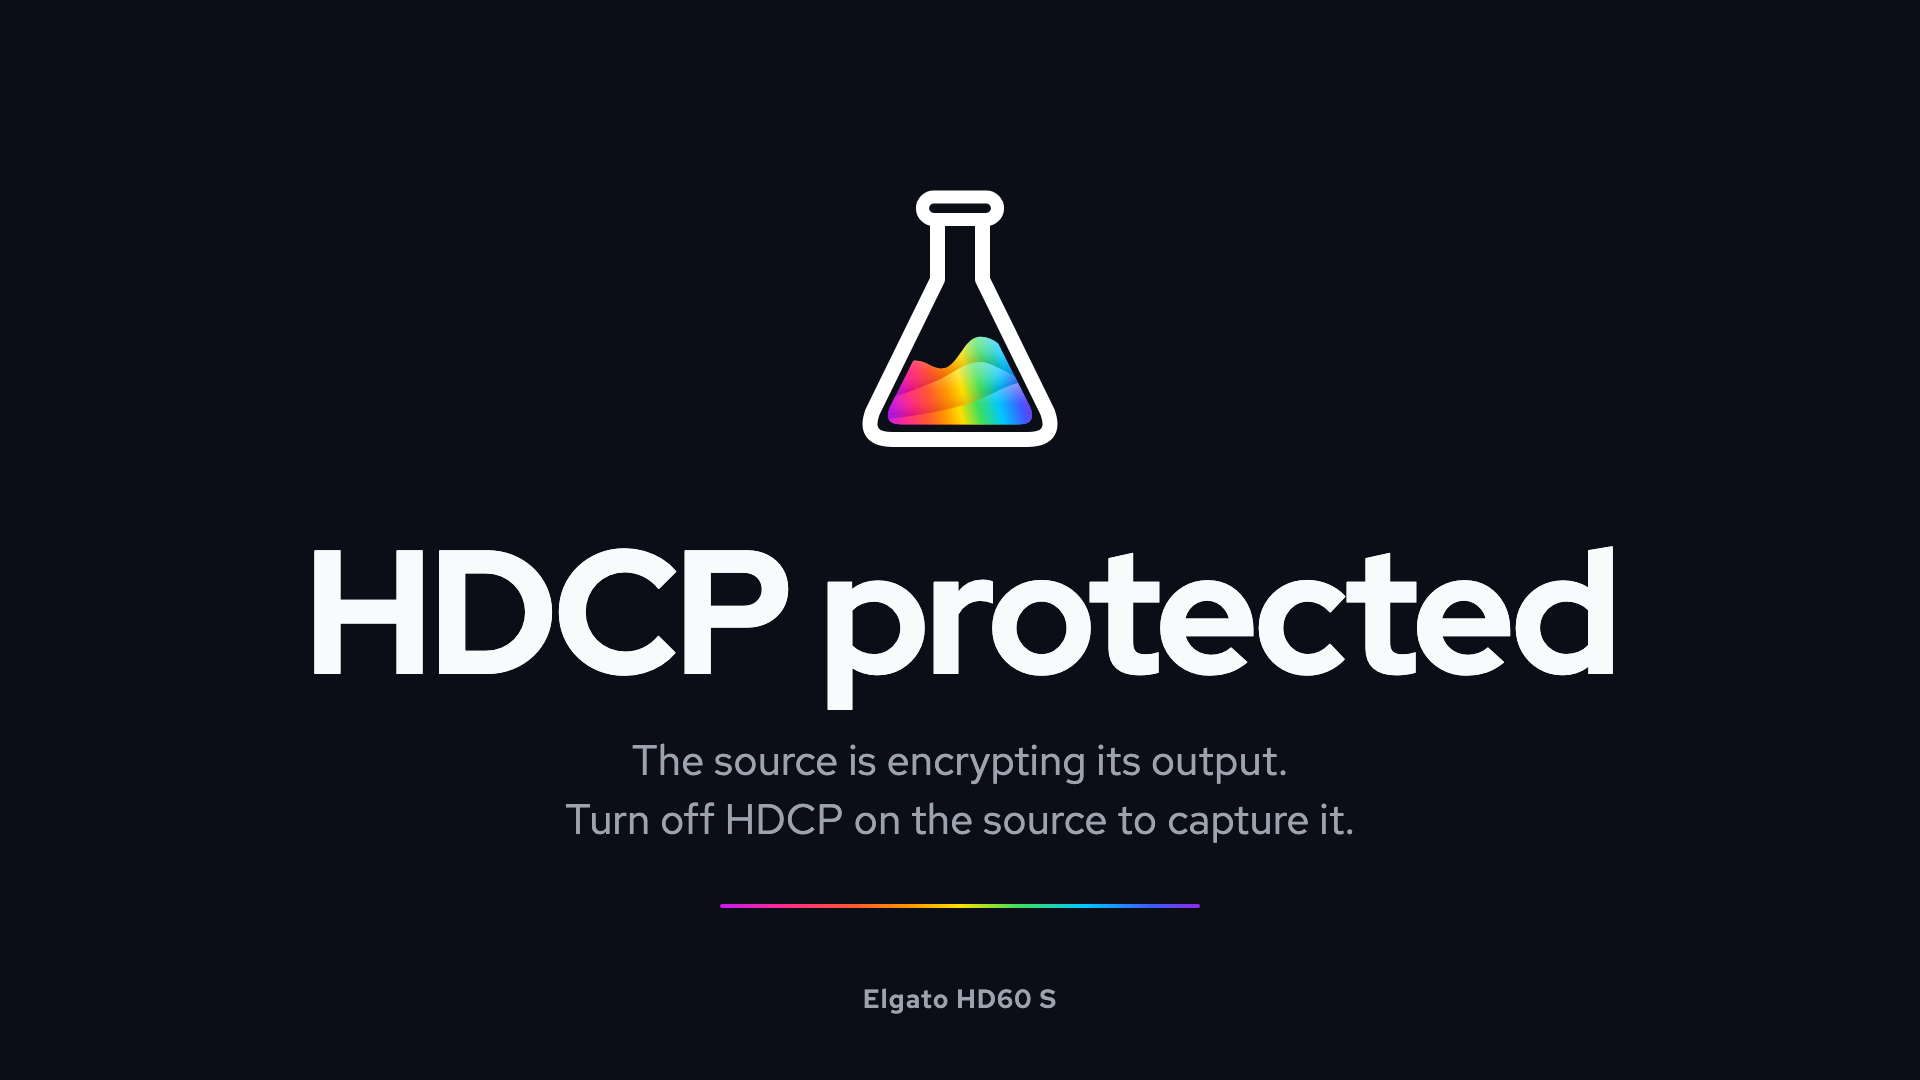
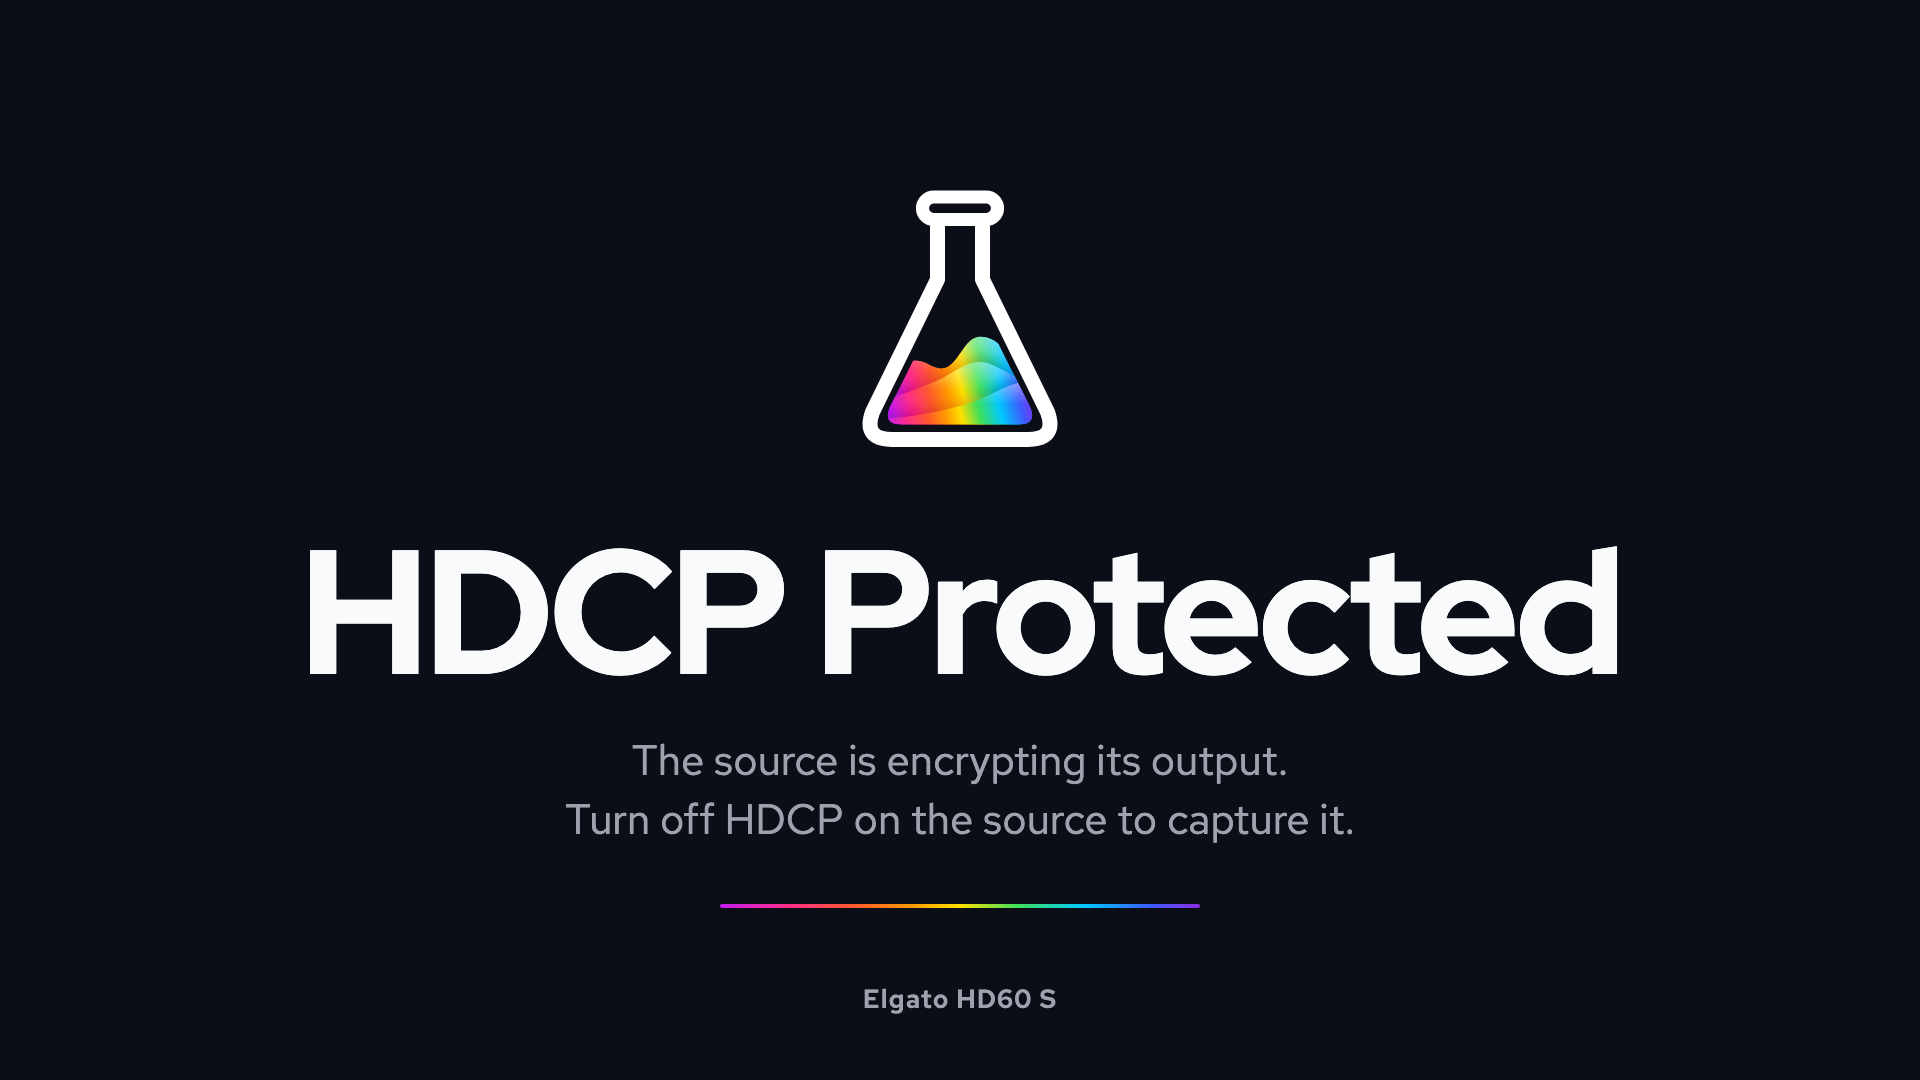
Capitalise HDCP Protected in status, app and camera slate

diff --git a/tests/test_status_view.swift b/tests/test_status_view.swift
@@ -71,7 +71,7 @@ func rows(_ r: [StatusView.Row]) -> [String] { r.map { "\($0.label)|\($0.value)|
         check(odd2.input.isEmpty && rows(odd2.connection).count == 2, "unsupported hides input")
 
         let hdcp = view(json(signal: "{\"state\":\"hdcp\",\"source\":\"hdmi\"}", frames: 40))
-        check(hdcp.dot == .warn && hdcp.title == "HDCP protected", "hdcp title")
+        check(hdcp.dot == .warn && hdcp.title == "HDCP Protected", "hdcp title")
         check(hdcp.detail == "The source is encrypting its output. Turn off HDCP on the source to capture it.", "hdcp detail \(hdcp.detail)")
         check(hdcp.input.isEmpty && rows(hdcp.connection).count == 3, "hdcp shows connection only \(rows(hdcp.connection))")
         check(view(json(access: "failed", fw: nil, signal: "{\"state\":\"hdcp\"}")).title == "Can't open the HD60 S", "open failure outranks hdcp")

diff --git a/tools/slate/slate-hdcp.html b/tools/slate/slate-hdcp.html
@@ -11,4 +11,4 @@ img{height:300px;margin-bottom:56px}
 .rule{width:480px;margin:56px 0 0}
 p{margin-top:36px}
 .dev{position:absolute;bottom:64px;left:0;right:0}
-</style><img src="file:///Users/mintopia/Projects/personal/ae-branding/assets/mark-reversed.svg" alt=""><h1>HDCP protected</h1><p>The source is encrypting its output.<br>Turn off HDCP on the source to capture it.</p><div class=rule></div><div class=dev>Elgato HD60 S</div>
+</style><img src="file:///Users/mintopia/Projects/personal/ae-branding/assets/mark-reversed.svg" alt=""><h1>HDCP Protected</h1><p>The source is encrypting its output.<br>Turn off HDCP on the source to capture it.</p><div class=rule></div><div class=dev>Elgato HD60 S</div>

diff --git a/mac/App/StatusModel.swift b/mac/App/StatusModel.swift
@@ -98,7 +98,7 @@ struct StatusView: Equatable {
             title = usedBy.map { "Live, in use by \($0)" } ?? "Live"
             detail = usedBy == nil ? "The HDMI source is coming through." : "Only one app can use the HD60 S at a time."
         } else if f.signal == .hdcp {
-            (dot, title) = (.warn, "HDCP protected")
+            (dot, title) = (.warn, "HDCP Protected")
             detail = "The source is encrypting its output. Turn off HDCP on the source to capture it."
         } else if case .unsupported(let w, let h) = f.signal {
             (dot, title) = (.warn, "Unsupported mode")

diff --git a/tests/test_status.c b/tests/test_status.c
@@ -127,7 +127,7 @@ int main(void)
     s.signal = SIGNAL_HDCP;
     s.source = SOURCE_HDMI;
     t = render(hd60s_print_text, &s);
-    assert(strstr(t, "Signal:   HDCP protected\n") && strstr(t, "Source:   HDMI\n") && !strstr(t, "Input:"));
+    assert(strstr(t, "Signal:   HDCP Protected\n") && strstr(t, "Source:   HDMI\n") && !strstr(t, "Input:"));
     u = render(hd60s_print_json, &s);
     assert(strstr(u, "\"signal\":{\"state\":\"hdcp\",\"source\":\"hdmi\"}"));
     s.signal = SIGNAL_ACTIVE;

diff --git a/src/status.c b/src/status.c
@@ -242,7 +242,7 @@ void hd60s_print_text(const struct hd60s_status *s, FILE *out)
         fprintf(out, "Signal:   %dx%d%s, unsupported mode\n", s->width, s->height, s->interlaced ? "i" : "p");
         break;
     case SIGNAL_HDCP:
-        fprintf(out, "Signal:   HDCP protected\n");
+        fprintf(out, "Signal:   HDCP Protected\n");
         break;
     case SIGNAL_ACTIVE:
         mode_text(s, mode, sizeof mode);

diff --git a/docs/PARITY.md b/docs/PARITY.md
@@ -147,12 +147,12 @@ App status messages: "No Signal", "Protected with HDCP", "USB 3 is required for 
 
 | # | Item | Status | Notes |
 |---|---|---|---|
-| F1 | Detect an HDCP-encrypted source and tell the user | done (console check pending) | #19. `status` state `hdcp`, "HDCP protected" camera slate and Status tab. The Pi can't send HDCP, so detection is unit-tested only; **Console** (PS5 with HDCP on) still to run |
+| F1 | Detect an HDCP-encrypted source and tell the user | done (console check pending) | #19. `status` state `hdcp`, "HDCP Protected" camera slate and Status tab. The Pi can't send HDCP, so detection is unit-tested only; **Console** (PS5 with HDCP on) still to run |
 
 **F1, HDCP detection.**
 - What Elgato does: shows "Protected with HDCP" instead of a picture, and plays LED animation 5 or 6 (`PlayAnimation(6 − hdcp)`, app:0x1003451d7).
 - How: `GetHDCPEnabled` → `dev+0x20`, set in `FUN_12a2f` from `FUN_125f7` bit1: MST b1:0x34 bit7 set, or b1:0x01 bit0 (when not overridden by the `FUN_17a0c`/`dev+0x28` checks). Bit 0 of `FUN_125f7` is b1:0x01 bit2, HDMI vs DVI.
-- Ours (#19): `status` reports state `hdcp` whenever the flag is set, the camera shows the "HDCP protected" slate instead of the picture (as Elgato does), and the Status tab says "HDCP protected". Flag read once a second in `hd60s_policy_tick` (`hd60s_read_link`), also through the dext frame ring (v3). The app lists the source row only for DVI.
+- Ours (#19): `status` reports state `hdcp` whenever the flag is set, the camera shows the "HDCP Protected" slate instead of the picture (as Elgato does), and the Status tab says "HDCP Protected". Flag read once a second in `hd60s_policy_tick` (`hd60s_read_link`), also through the dext frame ring (v3). The app lists the source row only for DVI.
 
 ## G. Device-side status
 

diff --git a/README.md b/README.md
@@ -21,7 +21,7 @@ Installing again updates the audio plug-in to the version in the app. To remove 
 
 Pick "Elgato HD60 S" as the camera. In OBS, add it as a Video Capture Device, and add "Elgato HD60 S" as an Audio Input Capture.
 
-- Consoles with HDCP on send no picture. The camera shows an "HDCP protected" slate and `hd60s status` and the app say so. On a PS5, turn off HDCP in Settings > System > HDMI.
+- Consoles with HDCP on send no picture. The camera shows an "HDCP Protected" slate and `hd60s status` and the app say so. On a PS5, turn off HDCP in Settings > System > HDMI.
 - Audio only flows while something is using the camera, and runs about 30 ms behind the picture (userspace DMG).
 - Only one thing can use the device at a time.
 - The camera offers 59.94, 50, 30, 25 and 24 fps. Frames are delivered at the source's own rate whichever you pick, so a 50 Hz source never drops or repeats frames; pick the rate that matches your source for correct nominal timing and "No signal" slate pacing.
